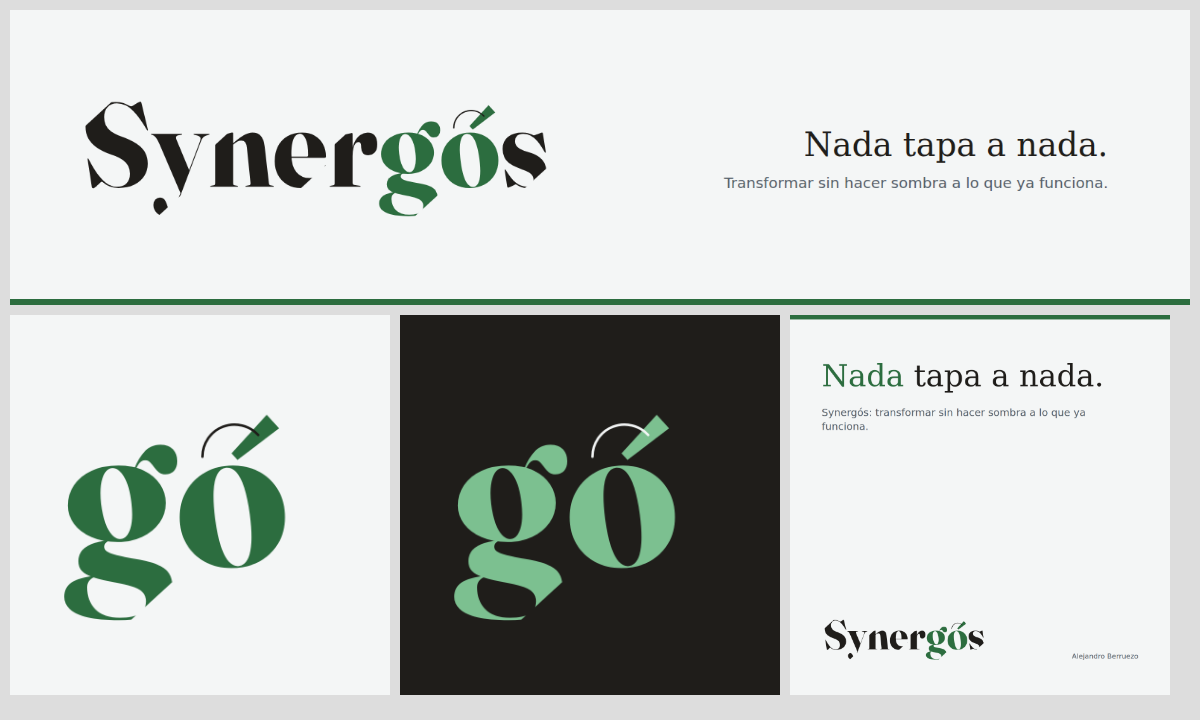
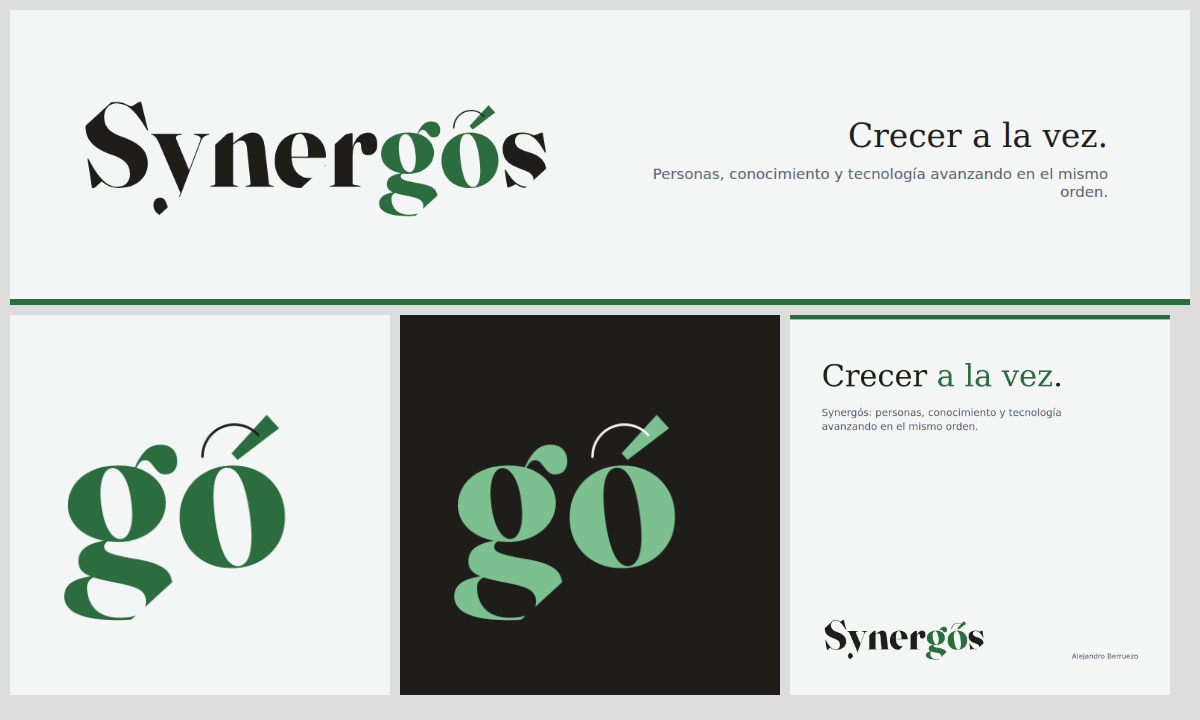
Eslogan definitivo: Crecer a la vez. Tarjeta, cabecera, A7, P5 y perfil actualizados
Claude-Session: https://claude.ai/code/session_01Kwrj1aJqv3F9rgwxPu8ASz

Changed region(s): [[0.555, 0.1528, 0.925, 0.275], [0.6783, 0.4889, 0.925, 0.6111]]

diff --git a/synergos/imagenes/tarjeta-eslogan.html b/synergos/imagenes/tarjeta-eslogan.html
@@ -9,7 +9,7 @@ h1 b{font-weight:normal;color:#2C6D3F}
 .foot span{font-family:'DejaVu Sans',sans-serif;font-size:22px;color:#56606A}
 .bar{position:absolute;left:0;top:0;height:14px;width:100%;background:#2C6D3F}
 </style></head><body><div class="bar"></div><div class="w">
-<div><h1><b>Nada</b> tapa a nada.</h1>
-<div class="sub">Synergós: transformar sin hacer sombra a lo que ya funciona.</div></div>
+<div><h1>Crecer <b>a la vez</b>.</h1>
+<div class="sub">Synergós: personas, conocimiento y tecnología avanzando en el mismo orden.</div></div>
 <div class="foot"><img src="logo-synergos.svg"><span>Alejandro Berruezo</span></div>
 </div></body></html>

diff --git a/synergos/imagenes/cabecera.html b/synergos/imagenes/cabecera.html
@@ -8,5 +8,5 @@ html,body{margin:0;width:1584px;height:396px;background:#F4F6F6;font-family:'Dej
 .bar{position:absolute;left:0;bottom:0;height:8px;width:100%;background:#2C6D3F}
 </style></head><body><div class="w">
 <div class="l"><img src="logo-synergos.svg"></div>
-<div class="r"><h1>Nada tapa a nada.</h1><p>Transformar sin hacer sombra a lo que ya funciona.</p></div>
+<div class="r"><h1>Crecer a la vez.</h1><p>Personas, conocimiento y tecnología avanzando en el mismo orden.</p></div>
 </div><div class="bar"></div></body></html>

diff --git a/synergos/07-perfil.md b/synergos/07-perfil.md
@@ -1,6 +1,6 @@
 # Perfil de LinkedIn: titular y Acerca de con Synergós
 
-**Actualizado (26 oct, tarde)** con el eslogan definitivo: "Nada tapa a nada." Listo para pegar.
+**Actualizado (26 oct, tarde)** con el eslogan definitivo: "Crecer a la vez." Listo para pegar.
 
 Propuesta del 26 oct 2026 para alinear el perfil con el lanzamiento de Synergós (post B0, 27 oct). Criterio: no quitar nada de lo que Alejandro es; cambiar el orden para que Synergós aparezca en las dos primeras líneas, que es lo que se ve sin pulsar "ver más". Alejandro lo pega a mano en LinkedIn (Publora no edita perfiles).
 
@@ -8,11 +8,11 @@ Propuesta del 26 oct 2026 para alinear el perfil con el lanzamiento de Synergós
 
 **Opción A (recomendada, 207 caracteres):**
 
-Líder en Transformación e Innovación | Construyo Synergós: transformar sin hacer sombra a lo que ya funciona | 30 años en programas complejos y sector público | Ingeniero · Emprendedor · Mentor
+Líder en Transformación e Innovación | Construyo Synergós: personas, conocimiento y tecnología creciendo a la vez | 30 años en programas complejos y sector público | Ingeniero · Emprendedor · Mentor
 
 **Opción B (201 caracteres):**
 
-Transformación, innovación e IA | Synergós: nada tapa a nada | 30 años liderando programas complejos en sector público y grandes organizaciones | Preventa y gobierno | Ingeniero · Emprendedor · Mentor
+Transformación, innovación e IA | Synergós: crecer a la vez | 30 años liderando programas complejos en sector público y grandes organizaciones | Preventa y gobierno | Ingeniero · Emprendedor · Mentor
 
 Qué cambia respecto al actual: Synergós y la frase entran en la primera línea; "Trader" y "Aprendiz" salen del titular por espacio (pueden quedarse en el Acerca de si Alejandro quiere); "Preventa, Estrategia y Gobierno" se condensa.
 
@@ -22,9 +22,9 @@ Las tres primeras líneas son las que se ven antes de "ver más"; por eso empiez
 
 ---
 
-Nada tapa a nada. En un girasol, cada semilla nace girada 137,5 grados respecto a la anterior y por eso ninguna hace sombra a otra. Llevo 30 años viendo transformaciones que fracasan por lo contrario: lo nuevo se pone encima de las personas y de lo que ya funcionaba.
+Crecer a la vez. En un girasol nadie coloca las semillas: cada una nace girada 137,5 grados respecto a la anterior, encuentra su sitio y todas crecen a la vez. Llevo 30 años viendo transformaciones que fracasan por lo contrario: la tecnología corre, las personas se quedan atrás y el conocimiento que sostenía el trabajo se pierde por el camino.
 
-Sobre esa idea estoy construyendo Synergós (del griego "el que trabaja junto a otro"): un marco para dirigir transformaciones en las que la tecnología, la IA y la innovación se colocan donde amplían a las personas en lugar de taparlas. Aquí publico cada martes y jueves una idea, con sus fuentes, y discuto las objeciones. Si diriges una transformación y te haces las mismas preguntas, este es el sitio.
+Sobre esa idea estoy construyendo Synergós (del griego "el que trabaja junto a otro"): un marco para dirigir transformaciones en las que personas, conocimiento y tecnología avanzan en el mismo orden, y la IA y la innovación amplían a quien hace el trabajo en lugar de sustituirlo. Aquí publico cada martes y jueves una idea, con sus fuentes, y discuto las objeciones. Si diriges una transformación y te haces las mismas preguntas, este es el sitio.
 
 Lo que hay detrás:
 

diff --git a/synergos/README.md b/synergos/README.md
@@ -22,7 +22,7 @@ Este cuaderno es la memoria viva del pensamiento. No es el método terminado: es
 - **A3. Synergós habla a quien dirige la transformación dentro de la organización**, no a quien la vende.
 - **A4. Nada inventado presentado como real.** Los casos compuestos se etiquetan como tales. Las cifras solo si están verificadas en `02-fuentes.md`.
 - **A5. En público, siempre Synergós.** Nunca el nombre de trabajo interno.
-- **A7. La frase de Synergós.** Eslogan: "Nada tapa a nada." Subtítulo: "Synergós: transformar sin hacer sombra a lo que ya funciona." Elegido el 26 oct 2026 (sustituye a "La transformación es humana. La tecnología solo la acelera.", que pasa a ser una idea de fondo de los posts, no el lema, porque "la transformación es de personas" está muy manido). Viene del ángulo áureo del girasol (137,5 grados), que es también el acento del logo. Frase de fondo complementaria: "Lo que no está escrito es lo que sostiene todo." Hashtag de tema principal: #TransformaciónHumana se mantiene por ahora.
+- **A7. La frase de Synergós (definitiva, 26 oct 2026).** Eslogan: "Crecer a la vez." Subtítulo: "Synergós: personas, conocimiento y tecnología avanzando en el mismo orden." Idea de fondo: la sincronía y la armonía del girasol (cada semilla encuentra su sitio y todas crecen a la vez), que es también el significado del nombre, trabajar junto a otro. Descartados antes: "La transformación es humana. La tecnología solo la acelera." (manido) y "Nada tapa a nada." (críptico). Frases de fondo para los posts: "lo que no está escrito es lo que sostiene todo"; "la transformación es humana". Hashtag de tema principal: #TransformaciónHumana por ahora.
 - **A8. Imagen por defecto.** Los posts de Synergós (martes y jueves) llevan la tarjeta `imagenes/tarjeta-eslogan.png` (o una tarjeta derivada del logo aprobado); los de Comunidad no llevan imagen. Enlaces, si los hay, van en el primer comentario. Fijado por Alejandro el 26 oct 2026.
 - **A9. Paleta de Synergós (definitiva, 26 oct 2026).** Paleta "Ángulo áureo" del estudio `08-colores.md`: tinta cálida #1F1D1A para texto y tinta del logo; verde #2C6D3F para el acento (el "gó", el arco, la franja), que es el matiz de 137,5 grados en el círculo cromático, el mismo ángulo del acento; sobre fondo de tinta el verde se aclara a #7CC090; fondo claro #F4F6F6. Segundo acento, solo para gráficos: el complementario #943879. Se probaron y descartaron antes magenta, azul marino, ciruela, marrón de girasol, verde oscuro y albero, granate y aguamarina. Tipografía: Fraunces (OFL) vectorizada para el logo; textos de apoyo en DejaVu Serif y DejaVu Sans.
 - **A10. Separación del empleo.** Synergós se trabaja en tiempo, medios y cuentas propios; no usa material, nombres ni clientes de la empresa; es divulgación y posicionamiento, no un servicio en venta mientras dure el empleo. Detalle y precauciones en `09-propiedad.md`. Fijado el 26 oct 2026.

diff --git a/synergos/04-bitacora.md b/synergos/04-bitacora.md
@@ -61,3 +61,4 @@ Registro cronológico de cómo evoluciona la idea. Entradas breves: qué se disc
 - 26 oct, tarde: estudio de color (08-colores.md, cuatro paletas con historia y contraste medido). Alejandro elige la P1 "Ángulo áureo": tinta cálida #1F1D1A y verde #2C6D3F (matiz 137,5 grados). Aplicada a logo, avatar, cabecera y tarjeta; tarjeta del post B0 sustituida en Publora y post reprogramado para el 27 oct a las 8:30. A9 definitivo.
 - 26 oct, tarde: Alejandro plantea que su trabajo en Minsait (Indra) se parece a Synergós, que no quiere problemas con la empresa y que el proyecto es suyo y no quiere regalarlo. Se crea 09-propiedad.md con reglas de separación (A10), qué mirar en el contrato y cómo dejar constancia de autoría (repo con fechas, registro de marca en OEPM, dominio, publicar el qué y guardar el cómo). Cautela nueva: el documento de método interno no se amplía ni se cita; Synergós se desarrolla desde el cuaderno y fuentes públicas.
 - 26 oct: Alejandro confirma que todo Synergós, documento de partida incluido, está hecho en su tiempo libre y con medios propios. Quiere precauciones para evitar problemas. Lista de precauciones ordenada en 09-propiedad.md.
+- 26 oct, tarde: eslogan definitivo "Crecer a la vez." (subtítulo: "Synergós: personas, conocimiento y tecnología avanzando en el mismo orden"). "Nada tapa a nada" descartado por críptico; lo que Alejandro quiere explotar es la sincronía y armonía del girasol. Tarjeta, cabecera, A7, P5 y perfil actualizados; tarjeta del post B0 sustituida en Publora.

diff --git a/synergos/01-preguntas-abiertas.md b/synergos/01-preguntas-abiertas.md
@@ -50,3 +50,5 @@ Consecuencia: Synergós deja de presentarse como "transformación digital" y pas
 **Afecta a:** identidad visual, un post y posiblemente una tesis.
 **Hecho verificable:** el ángulo áureo es 137,5 grados (360 por 1 menos 1/φ). En la filotaxis del girasol cada primordio nace girado ese ángulo respecto al anterior, de modo que ninguno tapa a otro y la cabeza se llena sin huecos (modelo de Vogel, 1979; Douady y Couder, 1992, mostraron que el patrón emerge de una regla local simple). Pendiente de fichar ambas en `02-fuentes.md` antes de citarlas en un post.
 **Decisión (26 oct 2026):** Alejandro elige la lectura 2, "nada tapa a nada": cada iniciativa nueva se coloca donde no hace sombra a las personas ni a los proyectos que ya están. El logo ya lo lleva (acento a 137,5 grados y arco). Queda en el backlog como post B10. Las demás lecturas (regla simple y orden complejo; crecer desde el centro; el ángulo que no se repite) quedan en reserva.
+
+**P5, tercera vuelta (26 oct 2026, tarde).** "Nada tapa a nada" resulta críptico y poco atractivo para Alejandro; lo que quiere explotar es la sincronía y la armonía (todo crece a la vez, cada cosa en su sitio). Elige **"Crecer a la vez."** con subtítulo **"Synergós: personas, conocimiento y tecnología avanzando en el mismo orden."** P5 cerrada definitivamente; A7 actualizado.
